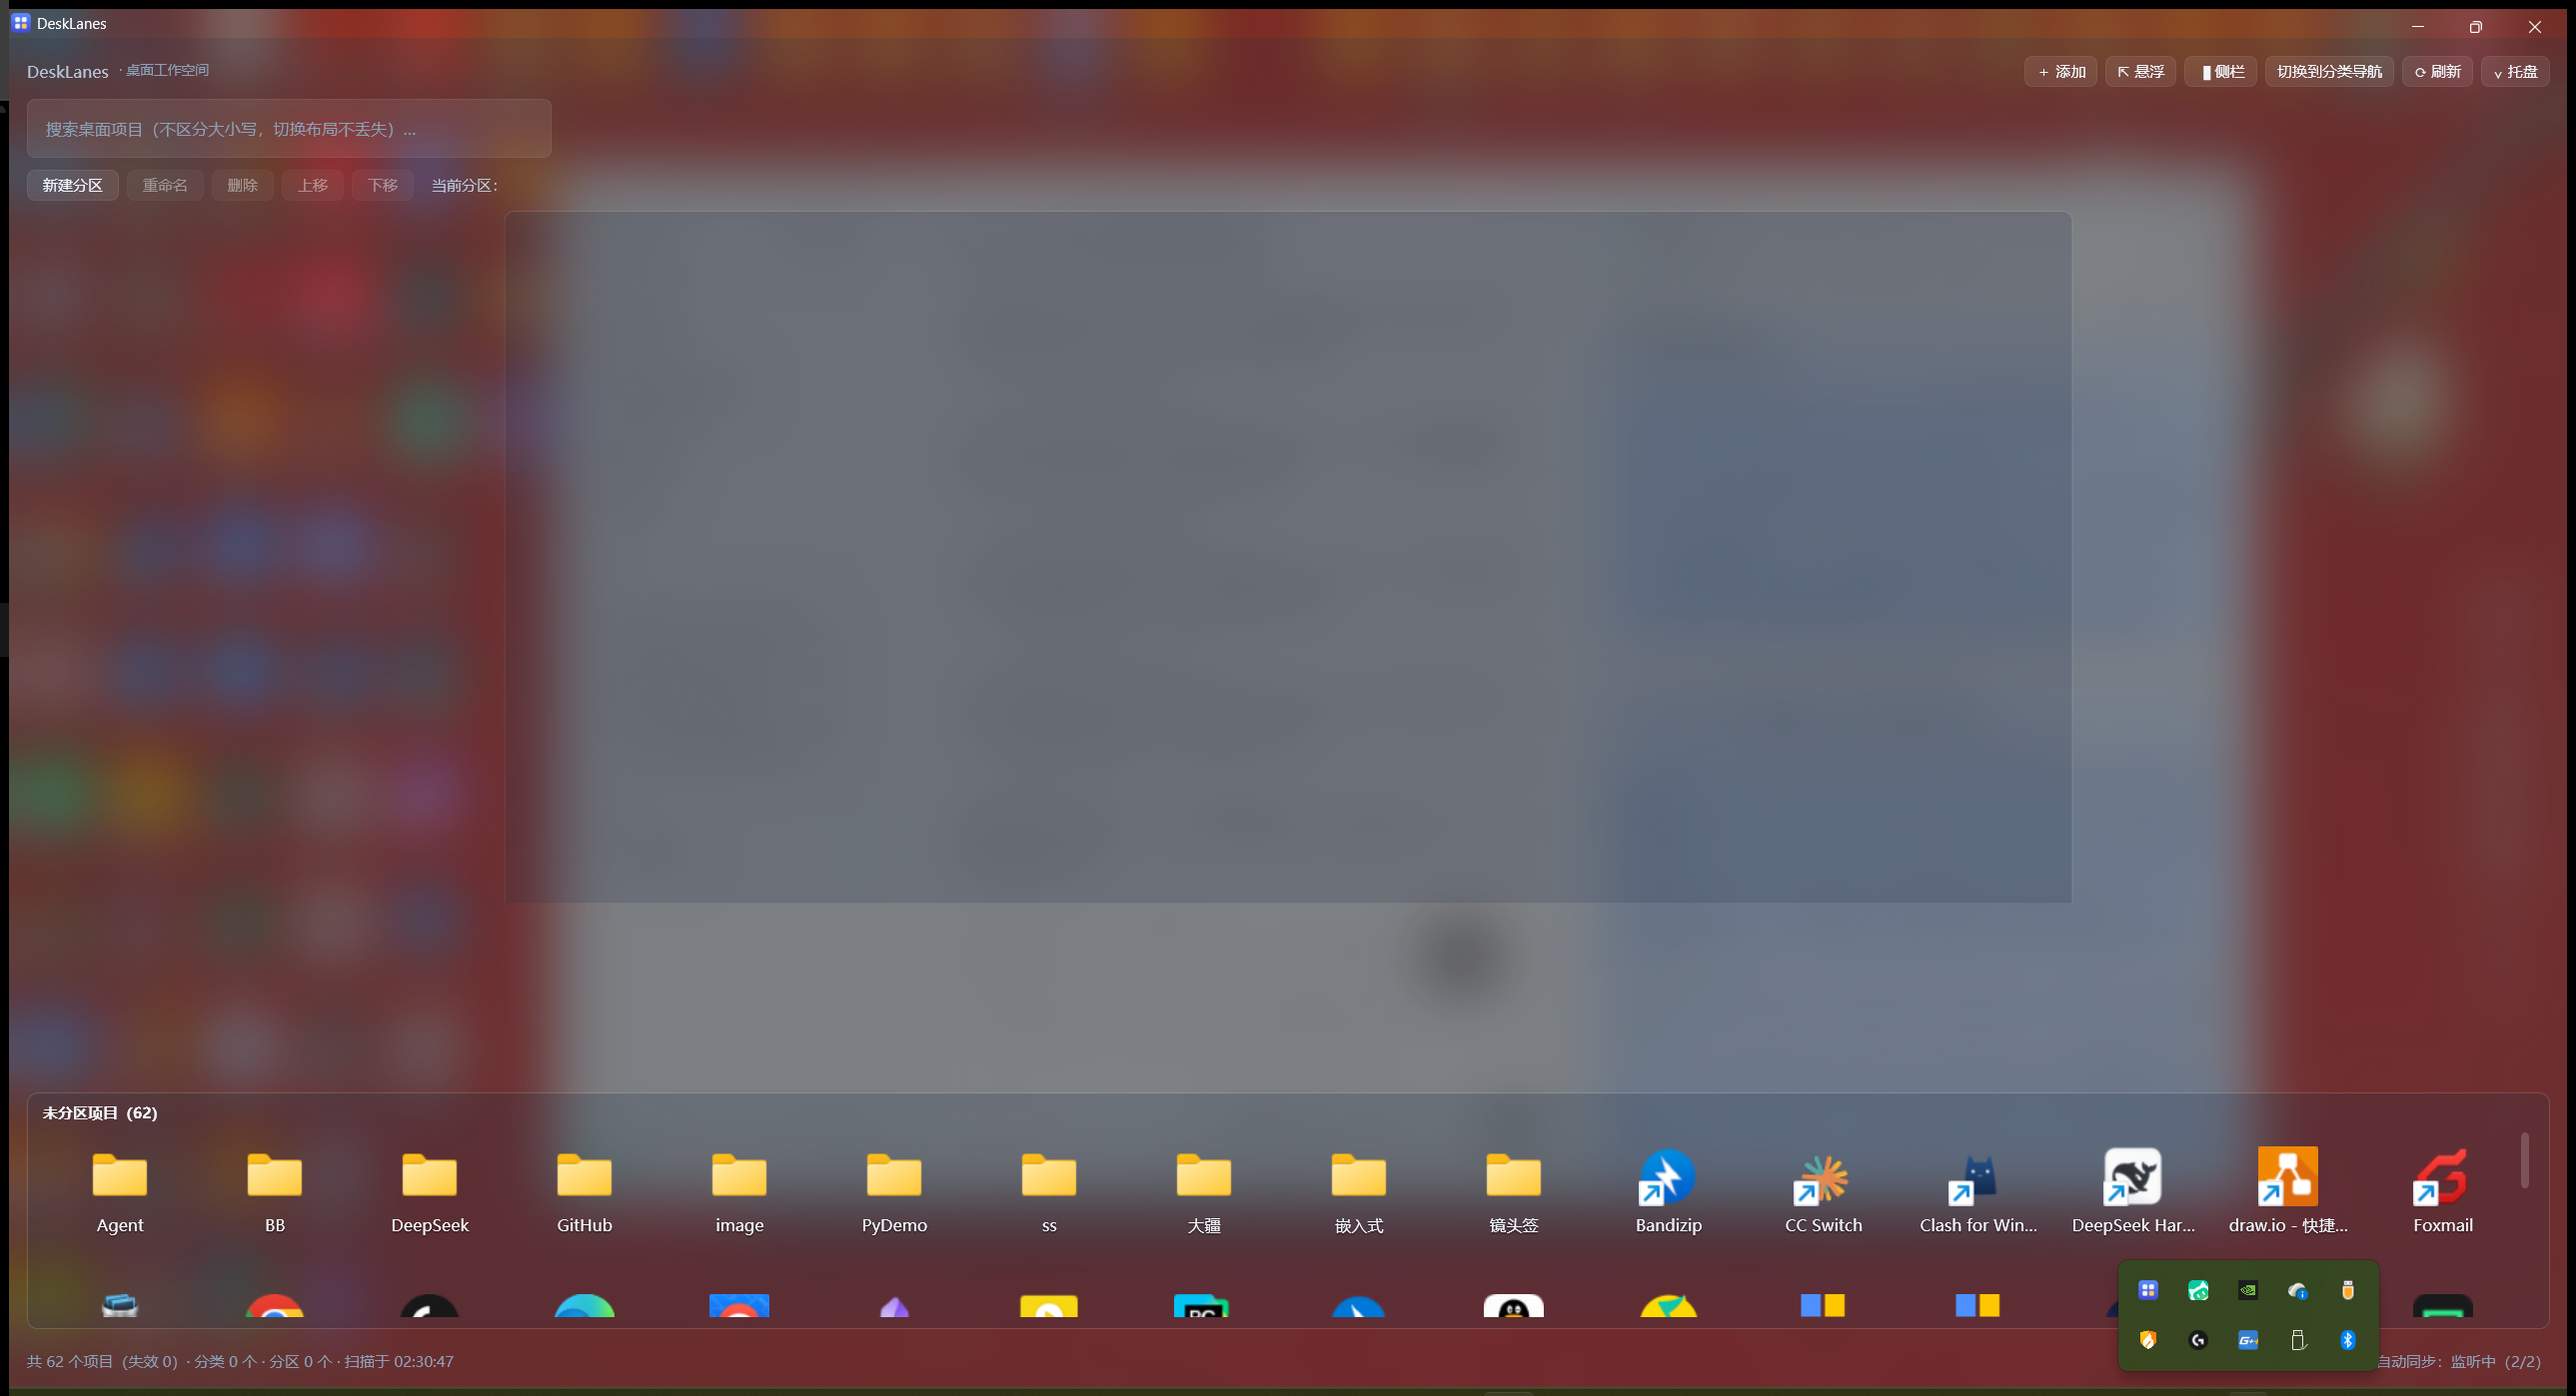
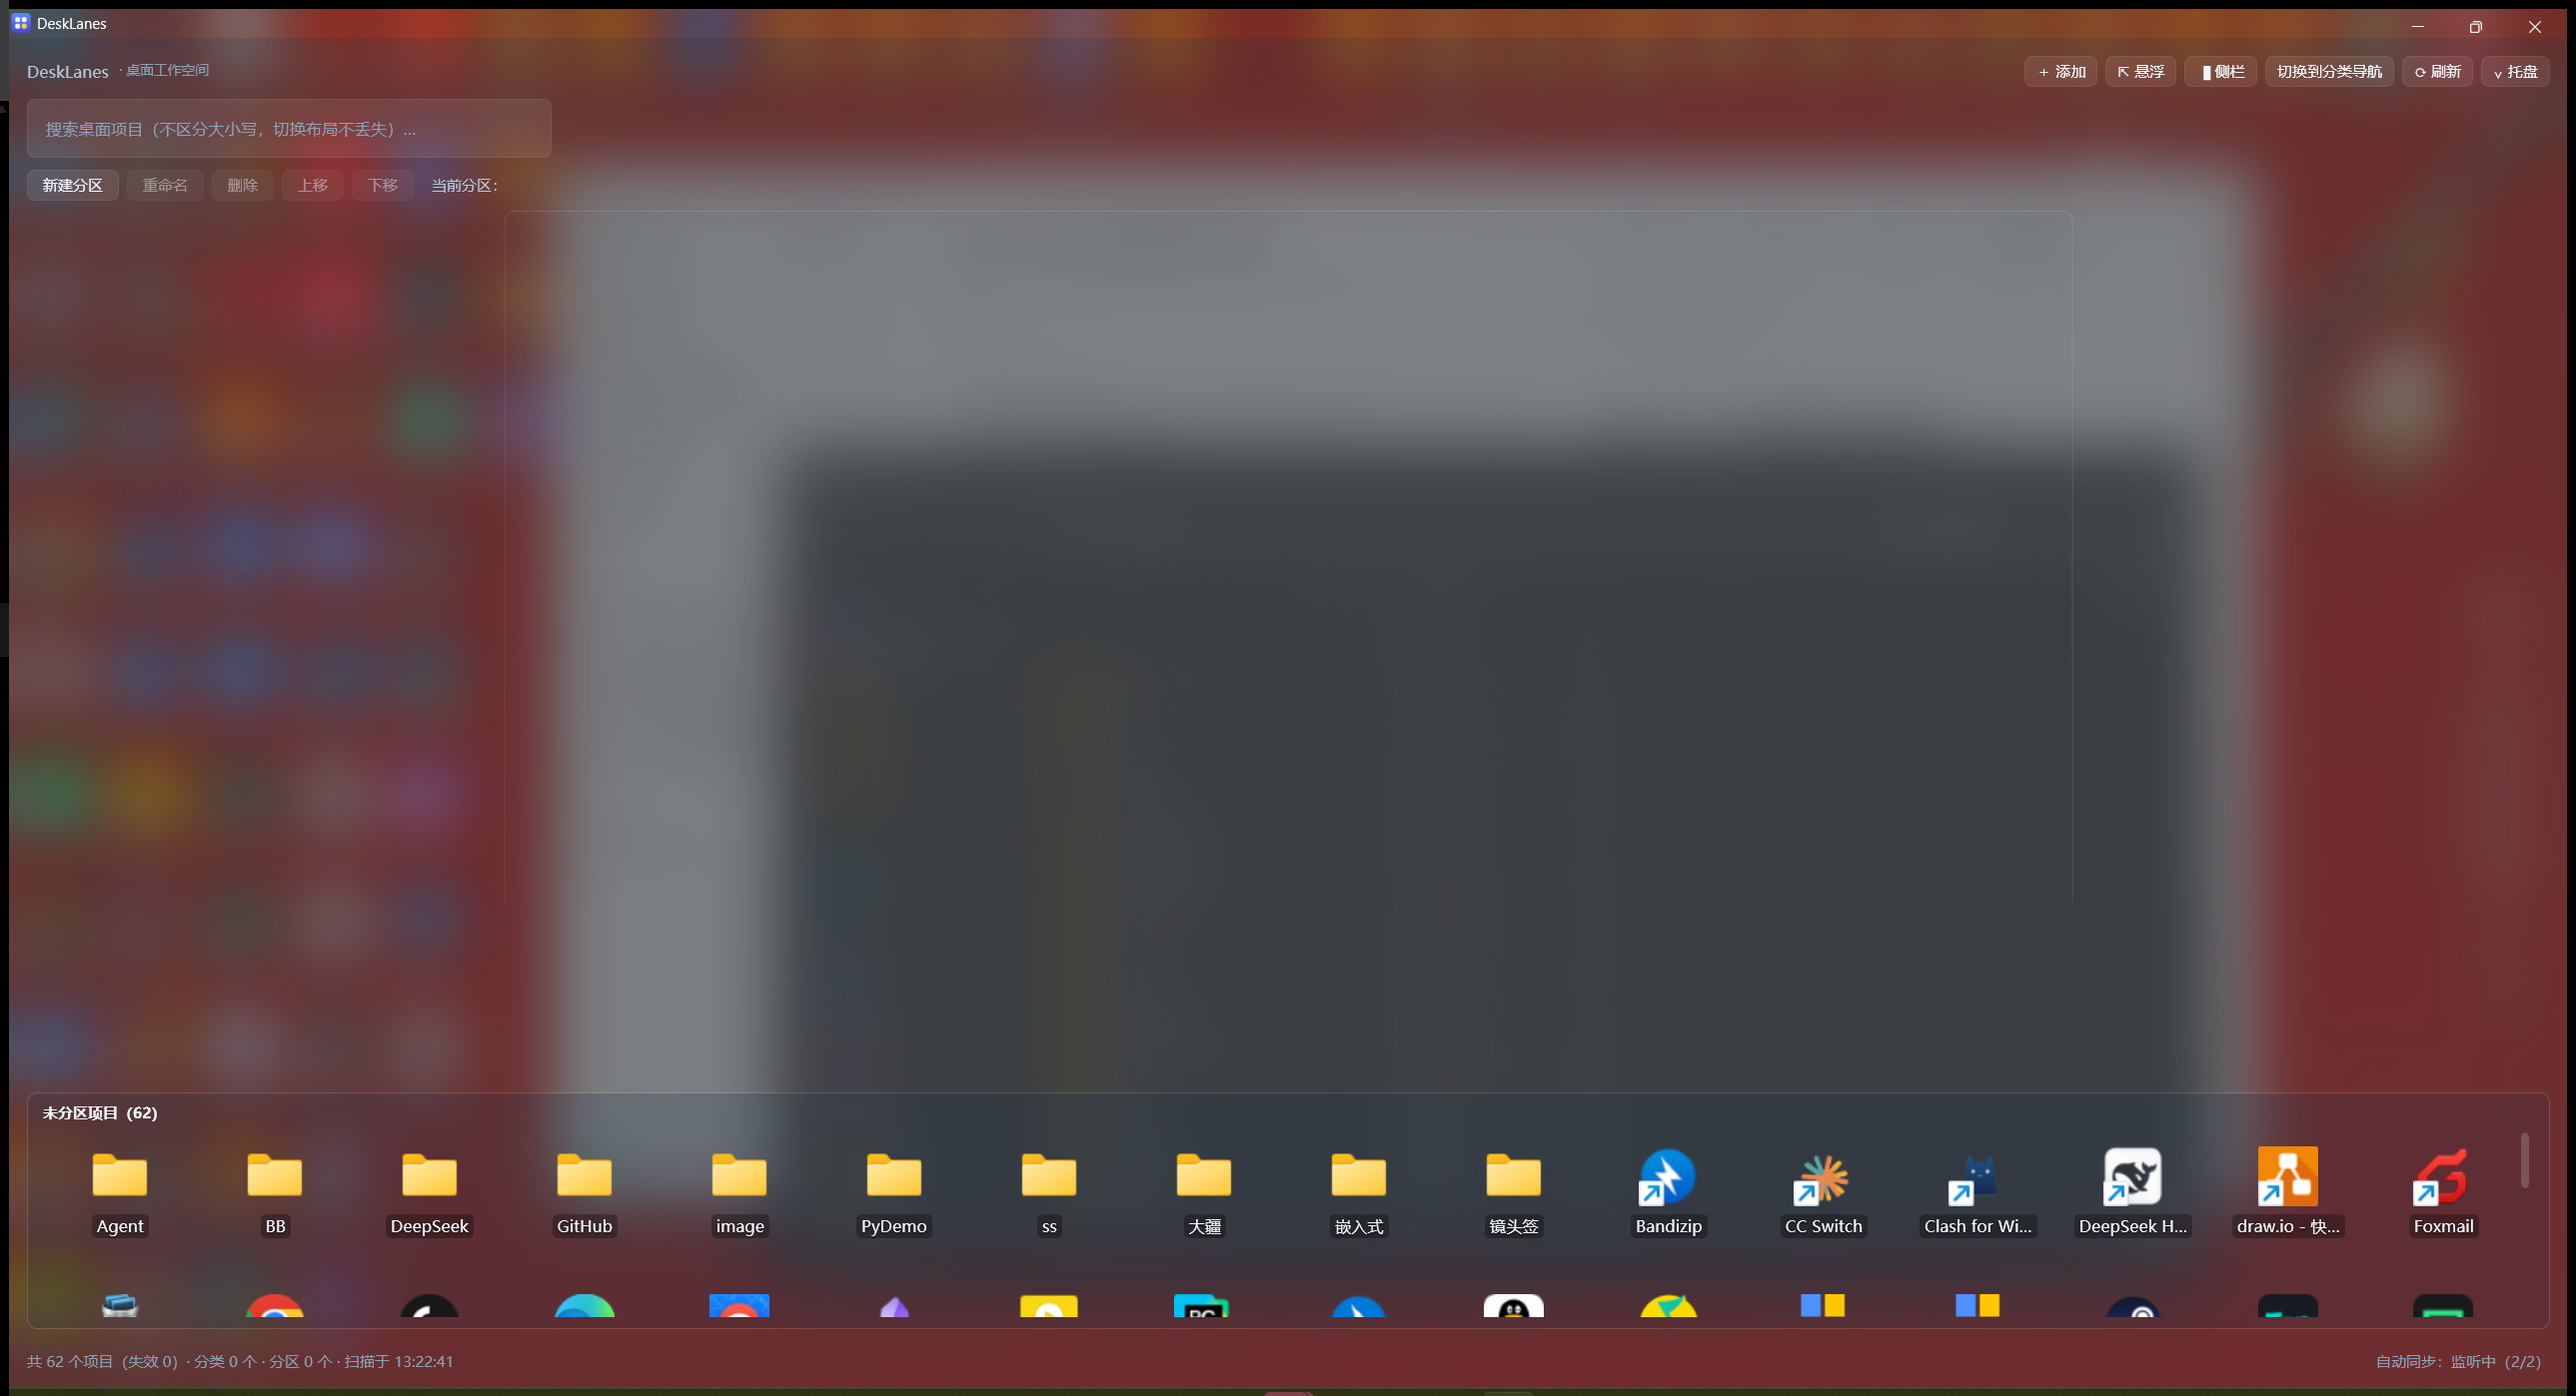
阶段 6：最终回归与视觉冻结
串行执行（先 taskkill 清残留，publish 完成后再跑端到端，不并发操作同一输出目录）：
  Release 构建 0 警告 0 错误
  冒烟 460/460
  端到端 36/36（真实 exe + 合成鼠标）
  启动 7/7（errors.log 零增长）

用最终构建重拍五张基线截图（全屏分类 / 全屏自由分区 / 悬浮窗 / 侧边栏 / 设置），
全部真实 exe、active=true、BACKDROP=3。

新增 docs/ui-acrylic-final/acceptance-report.md：汇总六个阶段的结论、数据、
未解决问题与风险，并给出"标记为设计基线"的前提条件与后续改动的复验要求。

明确未解决（不粉饰）：
1) 侧边栏无分类时为空 —— 有冒烟断言守护，待产品决策（A 保持 / B 加聚合视图）；
2) 亮壁纸下搜索框/按钮/状态栏对比度 3~3.6；
3) 悬浮窗两种壁纸都只有 3.07；
4) 无虚拟化导致内存随项目数线性增长（架构层，未处理）。

diff --git a/docs/ui-acrylic-final/acceptance-report.md b/docs/ui-acrylic-final/acceptance-report.md
@@ -1,0 +1,134 @@
+# 轻玻璃主题：最终验收报告
+
+> 六个阶段全部执行完毕。**结论：轻玻璃主题可以标记为正式设计基线**，
+> 但有三条已知限制与一个待产品决策项（见第七节），不是"全绿无隐患"。
+
+---
+
+## 一、最终视觉（真实 exe，活动窗口，`BACKDROP=3`）
+
+| 截图 | 内容 | 尺寸 |
+|---|---|---|
+| `fullscreen-category.png` | 全屏工作空间 · 分类导航 | 2578×1398（主屏 2560×1440） |
+| `fullscreen-panels.png` | 全屏工作空间 · 自由分区 | 2578×1398 |
+| `floating.png` | 悬浮窗 | 1068×810 |
+| `sidebar.png` | 侧边栏（贴右展开） | 350×950 |
+| `settings.png` | 设置窗口 | 575×650 |
+
+五张全部：真实 `DeskLanes.exe`、`active=true`（前台断言）、`SYSTEMBACKDROP_TYPE=3`。
+侧边栏 `CORNER=1`（贴边不切角），其余 `CORNER=2`。
+
+---
+
+## 二、玻璃材质到底成不成立（阶段 1）
+
+- 属性读回：四个窗口全部 `BACKDROP=3`（Desktop Acrylic），不是"设了没渲染"；
+- 全屏下窗口内容与背后桌面的**结构相关 0.909**，窗口 std 24.0 / 桌面 std 89.5（保留比 **0.27**）；
+- 强制不透明对照组相关系数 0.105。
+- **结论：材质真实生效**；全屏看着"平"是因为背后只剩深色低对比壁纸，不是材质失效。
+- 顺带确认：`Full` 模式下 `WindowMaximized=false` 无效（应用自己最大化）。
+
+---
+
+## 三、透明度层次（阶段 2）
+
+按真实视觉树列出叠加链，发现并去掉 **3 处"同一像素画两遍"**：
+
+| 区域 | 改前 | 改后 |
+|---|---|---|
+| 自由分区画布 | 18% + 18% = 32.8% | **18%** |
+| 自由分区卡片 | 49.7% | **38.6%** |
+| 悬浮窗 / 侧边栏基底 | 32.8% | **18%** |
+
+实测（右中部空白区平均亮度，越亮=越透）：panels 109.9→120.0、floating 124.2→150.5（+21%）、
+sidebar 63.9→71.9。单层 α（导航 30.2% / 内容 20% / 卡片 25.1%）**未动**，它们构成层次。
+
+---
+
+## 四、亮 / 暗壁纸可读性（阶段 3）
+
+正文色 `#F1F5FA` 的 WCAG 对比度（p50 / p95 / 最坏）：
+
+| 壁纸 | 窗口 | primary |
+|---|---|---|
+| 暗 | 全屏分类 | **6.70** / 3.76 / 2.17 ✅ |
+| 暗 | 侧边栏 | **8.62** / 3.81 / 3.28 ✅ |
+| 暗 | 悬浮窗 | 3.07 / 2.20 / 1.30 ❌ |
+| 亮 | 全屏分类 | **4.87** / 3.61 / 2.17 ⚠ |
+| 亮 | 侧边栏 | 3.33 / 3.03 / 2.28 ❌ |
+| 亮 | 悬浮窗 | 3.07 / 2.12 / 1.30 ❌ |
+
+- 修补：新增 `BrushLabelScrim`（30% 黑）**只垫在名字下面**（4 处），没有加深面板、没有统一加强投影；
+- 阶段 2 遗留项已结：悬浮窗圆角**没有**露未染色亮圈（角落亮度不高于内部）。
+
+---
+
+## 五、200+ 项目性能（阶段 4）
+
+同二进制、运行时开关投影、3 次中位数：
+
+| 指标 | 投影开 | 投影关 |
+|---|---|---|
+| 首屏 | 5645.8 ms | 5473.3 ms |
+| 布局切换 | **323.8 ms** | 345.5 ms |
+| 滚动 | 0.2 ms | 0.2 ms |
+| 缩放 | 231.7 ms | 265.9 ms |
+| 工作集 | 507.9 MB | 499.3 MB |
+
+**投影没有可测量的开销**（关掉反而略慢，属噪声）。真正值得注意的是：
+`WrapPanel` 不虚拟化 → 206 个瓦片全实体化，滚动几乎免费但内存 500MB 量级。
+
+---
+
+## 六、构建与测试（本次最终回归，串行执行、跑前清残留实例）
+
+| 项 | 结果 |
+|---|---|
+| Release 构建 | **0 警告 0 错误** |
+| 冒烟 | **460 / 460** |
+| 端到端（真实 exe + 合成鼠标） | **36 / 36** |
+| 启动（真实 exe） | **7 / 7** |
+| 三模式数据一致性 | 由冒烟覆盖（`悬浮窗直接读工作区数据（无副本）`、`三种模式共享同一个搜索词` 等） |
+| 截图复核 | 五张均人工看过（材质、层次、文字清晰度、边角） |
+
+---
+
+## 七、未解决问题与风险（必须一起看）
+
+### 1. 待产品决策：侧边栏"无分类时为空"
+
+- 主窗口有虚拟「未分组」能看到全部项目；侧边栏没有，`Groups` 为空时显示"还没有项目"。
+- 这不是漏实现：冒烟里有一条 `无分类时侧边栏分类为空（不伪造数据）` 在守着。
+- 我试过补虚拟节点，冒烟挂 2 项，已按"不得改断言迁就代码"**回退**。
+- 方案 A 保持现状 / 方案 B 加聚合视图（需同时改那条断言），取舍见 `phase5-report.md`。
+
+### 2. 亮壁纸下非项目名文字仍偏低（3~3.6）
+
+搜索框提示、按钮、状态栏没有垫底（垫了会变成一排深色条）。三条路线（接受 / 提基底 / 自适应）见 `phase3-report.md` 第七节。
+
+### 3. 悬浮窗两种壁纸都只有 3.07
+
+面积小、字号小、基底 18%。要救就得给它更实的底，会削弱"小窗也是玻璃"的一致性。
+
+### 4. 已知限制（系统行为，非缺陷）
+
+- **失焦后 Acrylic 退成近乎实心**：Win11 只对活动窗口渲染材质，文档化在 `phase5-report.md`；
+- **无虚拟化**：内存随项目数线性涨，500 项目会更重（架构层问题，未在本轮处理）。
+
+### 5. 测试覆盖的空白
+
+单机、单壁纸组合、单一 DPI（125%）；副屏只有竖屏 150%；未测显示器热插拔、锁屏/睡眠恢复、跨天驻留。
+
+---
+
+## 八、基线声明
+
+在下列前提下，把当前轻玻璃主题标记为**设计基线**：
+
+1. 材质：`Desktop Acrylic` 优先 → 被拒退 `Mica` → 再退不透明（`WindowBackdropService`）；
+2. 层次：窗口基底 18% / 导航 30.2% / 内容 20% / 卡片 25.1%，**不再叠加重复层**；
+3. 文字：浅色主文字 + 1px 级投影，名字另加 30% 局部底；
+4. 四个窗口（主窗 / 悬浮 / 侧边栏 / 设置）共用同一套材质与参数，侧边栏贴边方角。
+
+后续若要改这一层，必须重跑 `tools/phase2-ab.py` 与 `tools/phase3-readability.py`，
+否则无法证明"改动没有把玻璃或可读性弄坏"。
